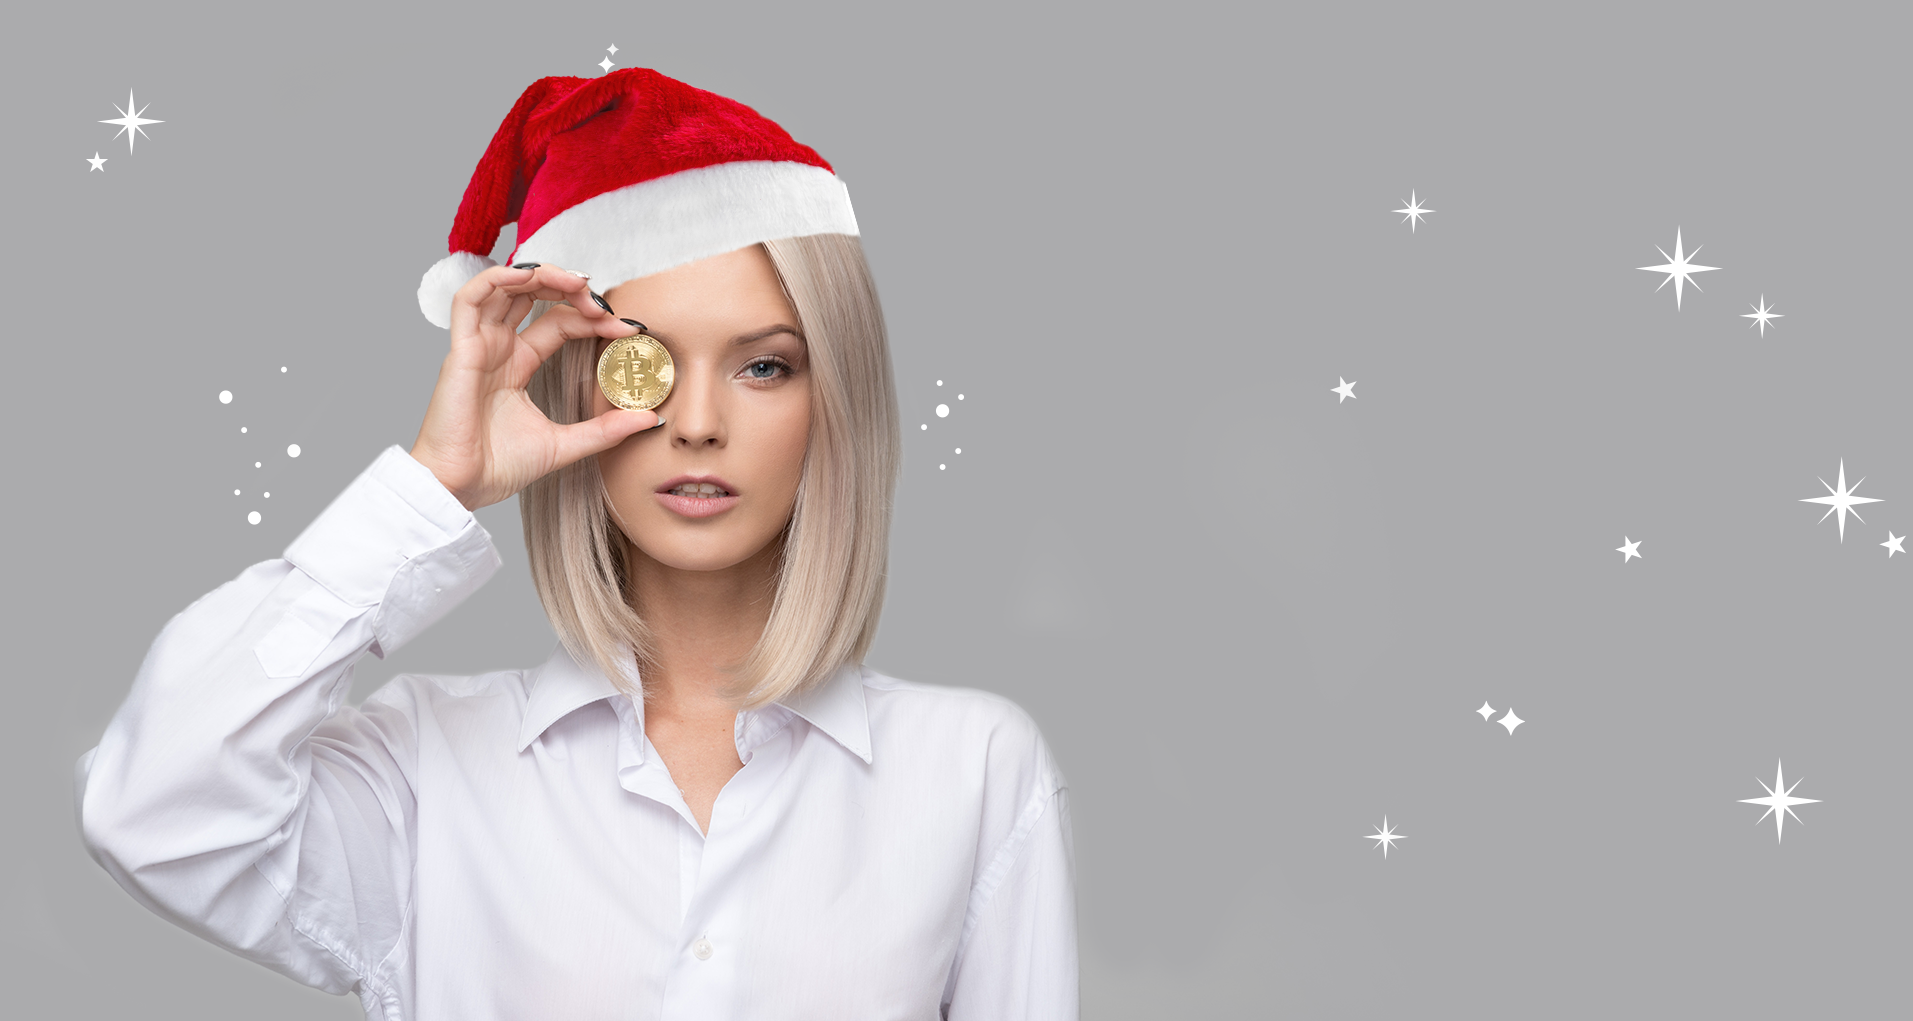
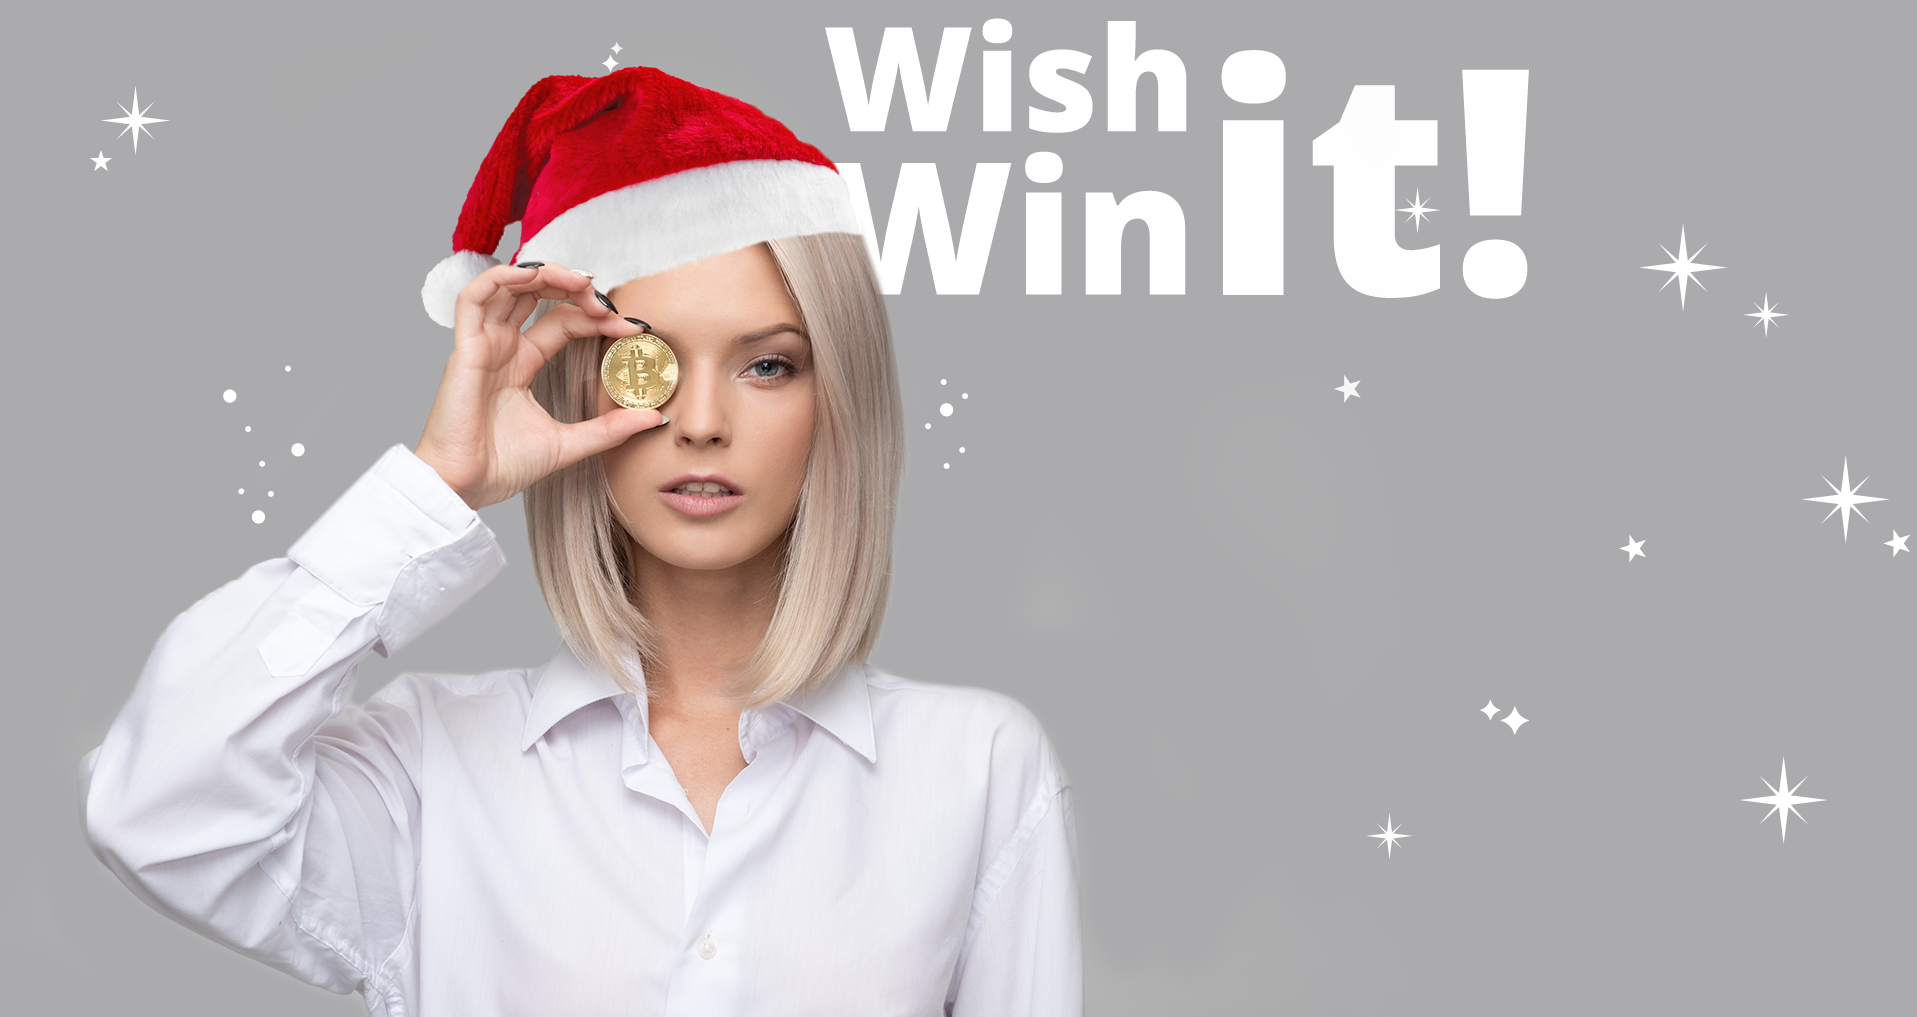
Desktop

diff --git a/assets/css/styles.css b/assets/css/styles.css
@@ -1,8 +1,8 @@
 :root{--textcolor:#fff;--main-font:'Open Sans',sans-serif}
 body{font-family:var(--main-font);color:var(--textcolor)}
 img{max-width:100%}
-.bg{background: url(../imgs/bg.png);background-size: 100%!important;min-height:100vh;padding:0;position:relative;}
-.content{/* background:rgba(254,255,255,0.8); *//* max-width:628px; */text-align:center;padding-bottom:60px;min-height:100vh;}
+.bg{background: url(../imgs/bg.png);background-size: cover!important;min-height:100vh;padding:0;position:relative;}
+.content{/* background:rgba(254,255,255,0.8); */max-width: 950px;text-align:center;padding-bottom: 0px;/* min-height:100vh; */padding-left: 384px;}
 .popup-title{background:#fff;width:290px;text-transform:uppercase;padding:6px;border-radius:3px;border:1px solid #e5e5e5;font-size:10px;font-weight:700;box-shadow:-1px -1px 13px #b9b9b9;color:#2f1a27;cursor:pointer;transition:all .5s ease;text-align:center}
 .popup{position:fixed;bottom:20px;z-index:9}
 .popup-cont{box-shadow:-1px -1px 13px #b9b9b9;background:#fff;width:460px;height:auto;bottom:1px;position:absolute;z-index:9;display:none}
@@ -19,16 +19,93 @@ img{max-width:100%}
 .pick-btn:hover{background:#37f5f3;color:#fff}
 .popup-outer{float:left;width:100%;height:50px}
 #step2{display:none}
-::-webkit-input-placeholder{color:#56751a}
-::-moz-placeholder{color:#56751a}
-:-ms-input-placeholder{color:#56751a}
-:-moz-placeholder{color:#56751a}
+::-webkit-input-placeholder{color:#202020}
+::-moz-placeholder{color:#202020}
+:-ms-input-placeholder{color:#202020}
+:-moz-placeholder{color:#202020}
+.form-check-input {
+    float: left;
+}
+
+label.form-check-label {
+    float: left;
+    width: calc(100% - 15px);
+    padding-left: 8px;
+    font-size: 9px;
+}
+
+.form {
+    padding-right: 23px;
+}
+
+.form-check {
+    margin-top: 12px;
+}
+
+
+
+.checkboxes a {
+    color: #fff;
+}
+
+.note {
+    float: left;
+    font-size: 9pX;
+    margin-top: 10px;
+    margin-bottom: 13px;
+}
+
+.note a {
+    color: #fff;
+    text-decoration: underline;
+}
+
+.free .text {
+    margin-left: -6px;
+}
 .free{
     background: url(../imgs/btn.png);
     border: 0;
-    width: 260px;
+    width: 302px;
     background-size: 100%;
-    height: 70px;
+    height: 86px;
+    font-size: 26px;
+    line-height: 81px;
+    font-weight: bold;
+    word-spacing: 1px;
+    text-transform: uppercase;
+    color: #222222;
+    font-family: 'Open Sans Condensed', sans-serif;
+}
+.row.form-cont {
+    width: 70%;
+    text-align: left;
+    margin: auto;
+    padding-left: 17px;
+}
+
+.quest {
+    color: #202020;
+    font-size: 18px;
+}
+
+.quest+p {
+    color: #202020;
+    font-size: 18px;
+    font-weight: bold;
+    word-spacing: 3px;
+    margin-top: 4px;
+}
+
+.field-cont input {
+    box-shadow: 0px 0px 1px #f4b81d;
+    border: 0;
+    margin-top: 6px;
+    width: 100%;
+    height: 35px;
+    background: #bababb;
+    padding: 0 18px;
+    margin-bottom: 4px;
 }
 @media screen and (max-width:767px) {
 .popup-outer{height:30px}
@@ -40,6 +117,31 @@ img{max-width:100%}
 .popup h2{margin-bottom:5px}
 .popup .wrp{padding:14px 7px}
 
+}
+p.slogan {
+    margin-top: 229px;
+    font-size: 30px;
+    text-transform: uppercase;
+    font-weight: bold;
+    letter-spacing: 1px;
+}
+
+.container-fluid.content>div {
+    max-width: 100%;
+}
+footer {
+    text-align: center;
+    color: #202020;
+    padding-bottom: 30px;
+}
+
+.slogan span.sp {
+    font-weight: bolder;
+    text-shadow: 3px 0px 0px #ffffff, -3px 1px 0px #f4b81d;
+}
+.form p {
+    margin-top: 9px;
+    font-size: 10px;
 }
 @media screen and (max-width:768px) {
 

diff --git a/index.html b/index.html
@@ -17,15 +17,15 @@
               <div class="container">
                 <div class="row">
                     <div class="col-md-12">
-                      <h1>
+                      <!--<h1>
                           <div>Wish</div>
                           <div>Win</div>
                           <div>it!</div>
-                      </h1>
+                      </h1>-->
                       <p class="slogan">Your <span class="sp">FREE Bitcoin</span> is waiting</p>
                     </div>
                   </div>
-                  <div class="row">
+                  <div class="row form-cont">
                     <div class="col-md-12">
                       <div class="quest">What are you waiting for?</div>
                       <p>Enter now and get a chance to win</p>
@@ -38,11 +38,12 @@
                         <div class="field-cont">
                             <input placeholder="Your Email"/>
                           </div>
-                          <p>Enter your email To comply with the new Data protection law (GDPR)</p>
+                          <p>To comply with the new Data protection law (GDPR)
+                          </p>
                           <div class="checkboxes">
                               <div class="form-check">
                                   <input type="checkbox" class="form-check-input" id="pp1">
-                                  <label class="form-check-label" for="pp1">I consent to the collection of my email address for the purpose of electronic advertising on behalf of the companies and industries explicitly detailed in our <a href="#">privacy policy.</a></label>
+                                  <label class="form-check-label" for="pp1">I consent to the collection of my email address for the purpose of electronic advertising on behalf of the companies and industries explicitly detailed in our <a href="#"></a>privacy policy.</a></label>
                               </div>
                               <div class="form-check">
                                   <input type="checkbox" class="form-check-input" id="pp2">
